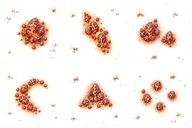
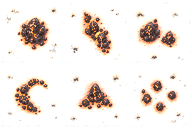
fix: preserve ore identity from world to mining
"Copper mined by hand gives heat stone" had three causes, none of them in
world generation (200 seeds, no node ever overwritten):

- The hand's underfoot fallback swung at the node under her feet when the
  node she was looking at was out of reach: standing on heat stone, facing
  copper, she mined heat stone. It now refuses when she is looking at a
  different node (Main._node_in_view).
- Heat stone and copper shared one orange item colour and heat stone's seam
  art was the North Star's red copper. Heat stone is now a charcoal lump with
  its glow kept (tools/art/recolor_heatstone.gd) and a yellow-amber colour.
- STARTER_COPPER held heat stone; renamed STARTER_NORTH.

Sim.ore_node_at gives one node's full identity (id, origin, size, type,
item) for debug and tests; Sim.ore_overwrites counts generation overwrites.

Claude-Session: https://claude.ai/code/session_01Bkgvo3SKTxTYSeWbRhmhxo

diff --git a/AGENTS.md b/AGENTS.md
@@ -144,6 +144,7 @@ Playwright가 함께 받는 `ffmpeg-1011`은 **답이 아니다.** 녹화용 빌
 (`-decoders | grep h264`로 확인). 파일이 멀쩡한 mp4인데 "Invalid data"가 나오면 이것이다.
 
 ## 실수와 교훈
+- 2026-09-29: **"A를 캤는데 B가 나왔다"는 세 가지가 같은 얼굴로 온다 — 손이 다른 것을 겨눴다, 그림이 다른 것처럼 보였다, 이름이 다른 것을 말했다.** 구리를 곡괭이로 캤더니 열석이 나온다는 보고에서 셋 다 참이었다. (1) `_hand_target`은 겨눈 노드가 손에 닿지 않으면 **발밑의 노드**로 떨어졌고, 그녀가 열석 노드 위에 서서 구리 노드를 보고 있으면 열석을 캤다(세계 여섯 개에서 구리를 바라보는 자리 25,000개 중 571개). 채굴기 조준은 지난 패스에서 고쳤는데 손은 따로 쓰인 두 번째 조준이었다. (2) 열석과 구리의 아이템 색이 (255,122,48)·(252,104,46)으로 **한 주황**이었고 열석 시트는 North Star의 구리처럼 붉은 결정이었다 — 생성은 한 번도 종류를 덮어쓰지 않았는데(200시드, `ore_overwrites` 0) 화면은 구리라고 말하고 있었다. (3) 열석 목록의 이름이 `STARTER_COPPER`였다. 고치기 전에 **논리(생성·저장·산출)와 그림과 이름을 따로 재서** 어느 쪽이 거짓말하는지 가르고, 조준하는 코드가 둘 이상이면 둘 다 같은 검사에 건다(`test_*_direct_mining_outputs_*`는 이웃 노드 위에 서서 휘두른다).
 - 2026-09-27: **전체 실행에서 한 번 실패하고 혼자 돌리면 통과하는 테스트는, 다시 돌리지 말고 시드를 훑는다.** `test_village`·`test_multitile_collision`·`test_crowd` 셋이 이번 작업 중 한 번씩 빨개졌고 셋 다 `_start_run()`의 무작위 세계 탓이었다 — 표지판 바로 아래의 광맥(600시드 중 14개), 발자국 안의 광맥, 밤에 기지를 가로지르는 귀갓길. 다시 돌려 초록을 보는 것은 아무것도 증명하지 않는다. `_start_run(seed)`으로 수백 개 시드를 한 프로세스에서 훑는 작은 스크립트가 몇 초면 실패하는 세계를 찾아 주고, 그 세계를 이전 커밋에서 돌리면 내 변경 때문인지도 가려진다(`git worktree add --detach` + `config/name`을 바꿔 user 폴더를 분리). 고칠 것이 테스트의 전제면 그 자리를 비우고(무엇을 왜 비우는지 주석으로), 게임이면 게임을 고친다.
 - 2026-09-27: **`AudioStreamWAV.data.size() / 2`는 16비트 PCM일 때만 프레임 수다.** 베드의 루프 끝을 그렇게 두었는데 WAV는 QOA로 압축 import되므로(`compress/mode=2`) 그 값은 파일의 약 1/5이었고, 7.5초 바람이 1.5초마다·6초 냉기가 1.2초마다 이음새에서 튀며 돌았다. 플레이테스트의 '1~2초마다 반복되는 굉음/괴음'이 대부분 이것이었는데, 소리를 고치려고 build_sfx.py의 레시피를 두 번 바꾸는 동안 아무도 루프 길이를 재지 않았다. **소리가 반복된다는 말을 들으면 레시피보다 먼저 실제 `loop_end`를 초로 출력한다**(`Audio.loop_frames`, `test_audio_weather`).
 - 2026-09-27: **Z를 누르고 있어 무언가를 한 뒤 떼면, 떼는 순간 앞에 있는 것이 새로 생긴 것일 수 있다.** 상자 조사(홀드)를 끝낸 Z의 release가 '탭'으로 `_primary_action()`에 떨어졌고, 그 앞에는 방금 상자가 펼쳐진 기지가 있어 작업대가 열렸다. 채굴만 `mine_swung`으로 '이 홀드는 일을 했다'를 표시하고 있었다. **홀드로 진행되는 동작을 새로 만들면 진행하는 프레임마다 홀드를 '사용됨'으로 표시한다**(상자·잔해·해동). 테스트는 실제 InputEventKey의 누름과 뗌을 보내야 잡힌다(`test_deploy`).
